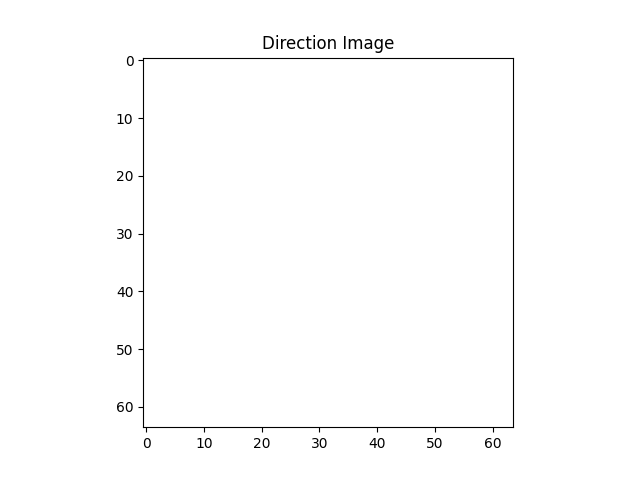
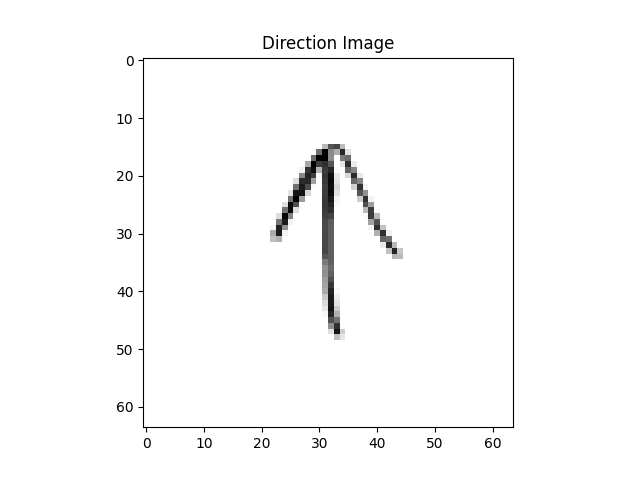
Assessment Test q6 & 7

Changed region(s): [[0.4062, 0.2812, 0.625, 0.7188]]

diff --git a/app.py b/app.py
@@ -1,15 +1,20 @@
 from flask import Flask, request
-from PIL import Image
+from PIL import Image,ImageDraw,ImageFont
 import io
 import numpy as np
 import tensorflow as tf
 from tensorflow.keras.preprocessing import image
+from config.firebase import get_db
+from firebase_admin import firestore
+from google.cloud.firestore_v1 import ArrayUnion
 
 
 #IMPORTING FUNCTIONS FROM FOLDER
 from config.firebase import initialize_firebase
 from apis.model_api import letter_predict
 from apis.model_api import direction_predict
+from apis.model_api import predict_handwriting
+from apis.letter_handler import g_handler_letter
 from apis.firestorequery_handler import store_direction_error
 
 
@@ -35,8 +40,7 @@ def predict_letter():
 def predict_direction():
     user_id = request.form.get('user_id')
     file = request.files["file"]
-   
-  
+
     if user_id:
         print(f"\n(DEBUG) Assessment Level 1 Question 1 RECEIVED REQUEST: {user_id}!!\n")
         
@@ -99,6 +103,161 @@ def predict_q5():
             return "Database Error"
     return "error"
 
+#A-LEVEL 2 QUESTION#6
+@app.route("/predict_q6",methods=['POST'])
+def predict_q6():
+    user_id=request.form.get('user_id')
+    question_number=request.form.get('question_number')
+    letter=request.form.get('letter_selected')
+    if user_id:
+        print("The user(id): ",user_id)
+        print("The Question Number: ",question_number)
+        print("Letter Selected: ",letter)
+        if not letter:
+            return "Letter not Provided"
+        img = Image.new('RGB', (120, 120), color=(255, 255, 255)) 
+        draw = ImageDraw.Draw(img)
+
+        # 2. Load the font
+        try:
+            # Use a large font size to fill the 120x120 space
+            font = ImageFont.truetype("arial.ttf", 100)
+        except:
+            font = ImageFont.load_default()
+
+        # 3. Center the letter on the 120x120 canvas
+        # Get dimensions of the letter
+        bbox = draw.textbbox((0, 0), letter, font=font)
+        w, h = bbox[2] - bbox[0], bbox[3] - bbox[1]
+        
+        # Calculate coordinates to put the letter in the middle
+        x = (120 - w) / 2
+        y = (120 - h) / 2 - 10 # Slight offset for visual centering
+        
+        # 4. Draw the letter in black (0)
+        draw.text((x, y), letter, fill=(0, 0, 0), font=font)
+
+        #save the image
+        # image_name = f"input_{letter}.png"
+        # img.save(image_name)
+        result=letter_predict(img)
+        predicted_letter=""
+        for x in result['prediction']:
+            if isinstance(x, str):
+                predicted_letter= x
+        print(predicted_letter)
+       
+        db = get_db()
+        doc_ref = db.collection('Assessment_Test') \
+            .document(user_id) \
+            .collection('Level_2') \
+            .document(str(question_number))
+
+        doc = doc_ref.get()
+        if doc.exists:
+            if doc.to_dict().get('Answer') == 'Incorrect':
+                return "incorrect"
+            elif doc.to_dict().get('Answer') == 'Correct' and predicted_letter!='p':
+                doc_ref.update({
+                    'Question Number': question_number,
+                    'Answer': 'Incorrect',
+                    'Error': 'p'
+                })
+                return "incorrect"
+            elif doc.to_dict().get('Answer') == 'Correct' and predicted_letter=='p':
+                return "correct"
+
+        if predicted_letter == 'p' and letter == 'p':
+            doc_ref.set({
+                'Question Number': question_number,
+                'Answer': 'Correct'
+            })
+            return "correct"
+        else:
+            doc_ref.set({
+                'Question Number': question_number,
+                'Answer': 'Incorrect',
+                'Error': 'p'
+            })
+            return "incorrect"
+
+#A-LEVEL 2 QUESTION#7
+@app.route("/predict_q7",methods=['POST'])
+def predict_q7():
+    user_id=request.form.get('user_id')
+    question_number=request.form.get('question_number')
+    expected_Letter=request.form.get('expected_Letter')
+    file = request.files["file"]
+    if user_id:
+        print("The User(id): ",user_id)
+        print("The Question Number: ",question_number)
+        print("Expected Letter: ",expected_Letter)
+        img = Image.open(file.stream).convert("RGB") 
+        #for debugging
+        #img.save("test.png")
+        db = get_db()
+        doc_ref = db.collection('Assessment_Test') \
+            .document(user_id) \
+            .collection('Level_2') \
+            .document(str(question_number))
+        if expected_Letter == 'q':
+            prediction=g_handler_letter(img)
+            if prediction not in ['q','Q']:
+                doc_ref.set({
+                'Question Number': question_number,
+                'Answer': 'Incorrect',
+                },merge=True)
+                doc_ref.update({
+                    'Error': ArrayUnion(['q'])
+                    })
+                print("Error q")
+            else:
+                print("Correct q")
+        else:
+            pred=letter_predict(img)
+            model_predict=""
+            for x in pred['prediction']:
+                if isinstance(x, str):
+                    model_predict= x
+            # print(model_predict)
+            if expected_Letter == 'p':
+                if model_predict not in ['p','P_caps']:
+                    doc_ref.set({
+                    'Question Number': question_number,
+                    'Answer': 'Incorrect',
+                    },merge=True)
+                    doc_ref.update({
+                    'Error': ArrayUnion(['p'])
+                    })
+                    print("Error p")
+                else:
+                    print("Correct p")
+            elif expected_Letter == 'b':
+                if model_predict not in ['b', 'B_caps']:
+                    doc_ref.set({
+                    'Question Number': question_number,
+                    'Answer': 'Incorrect',
+                    },merge=True)
+                    doc_ref.update({
+                    'Error': ArrayUnion(['b'])
+                    })
+                    print("Error b")
+                else:
+                    print("Correct b")
+            elif expected_Letter == 'd':
+                if model_predict not in ['d','D_caps']:
+                    doc_ref.set({
+                    'Question Number': question_number,
+                    'Answer': 'Incorrect',
+                    },merge=True)
+                    doc_ref.update({
+                    'Error': ArrayUnion(['d'])
+                    })
+                    print("Error d")
+                else:
+                    print("Correct d")
+
+
 if __name__ == "__main__":
-    app.run(host='0.0.0.0', port=5000)
+    app.run(host='192.168.0.14', port=5000)
 

diff --git a/apis/model_api.py b/apis/model_api.py
@@ -7,7 +7,7 @@ import matplotlib
 matplotlib.use('Agg')
 import matplotlib.pyplot as plt
 from google import genai
-
+from transformers import TrOCRProcessor, VisionEncoderDecoderModel
 from apis.letter_handler import g_handler_direction
 from apis.letter_handler import g_handler_letter
 
@@ -45,7 +45,7 @@ def letter_predict(img):
     confidence = np.max(predictions)
     
     #HIDE GEMINI CODE ##
-    print(g_handler_letter(img)) 
+    # print(g_handler_letter(img)) 
     
     return ({"prediction": {predicted_class,confidence}})
 
@@ -64,3 +64,19 @@ def direction_predict(img):
     # Predict
     return g_handler_direction(img)
  
+
+def predict_handwriting(image):
+    # 1. Load the processor and model from Hugging Face
+    # 'processor' handles image resizing/normalization and text decoding
+    processor = TrOCRProcessor.from_pretrained('microsoft/trocr-base-handwritten')
+    model = VisionEncoderDecoderModel.from_pretrained('microsoft/trocr-base-handwritten')
+
+    # 3. Preprocess the image into pixel values (tensors)
+    pixel_values = processor(images=image, return_tensors="pt").pixel_values
+
+    # 4. Generate text (inference)
+    # The model generates token IDs which we then decode into text
+    generated_ids = model.generate(pixel_values)
+    generated_text = processor.batch_decode(generated_ids, skip_special_tokens=True)[0]
+
+    return generated_text

diff --git a/apis/letter_handler.py b/apis/letter_handler.py
@@ -9,7 +9,7 @@ import matplotlib.pyplot as plt
 from google import genai
 
 
-client = genai.Client(api_key="AIzaSyBT0alA9j4koF6ihAplZLLrCxryYfUTo4A")
+client = genai.Client(api_key="AIzaSyDaWzT6RxWJ2O8KO5K0sNBK59iwOdoQYU4")
 def g_handler_direction(img):
     prompt = (
         "You will be our Arrow Direction identifier you will detect which hand-drawn arrow  is shown in the image and it should only be 1 word(only english word if you see something else put -) answer from you for example if the image shows UP arrow then you will say Up if its Left then you will say Left"

diff --git a/apis/firestorequery_handler.py b/apis/firestorequery_handler.py
@@ -111,3 +111,6 @@ def store_direction_error(user_id, direction_predicted,question_number):
         doc_ref.set(initial_data)
         
     return True
+
+
+
